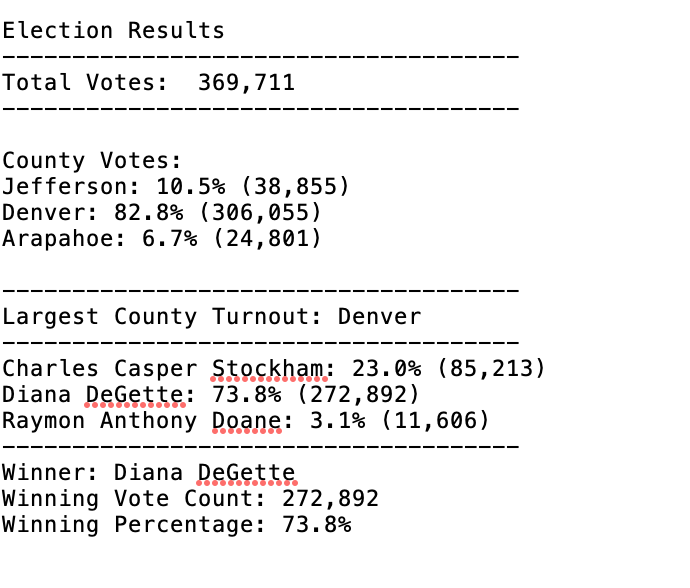
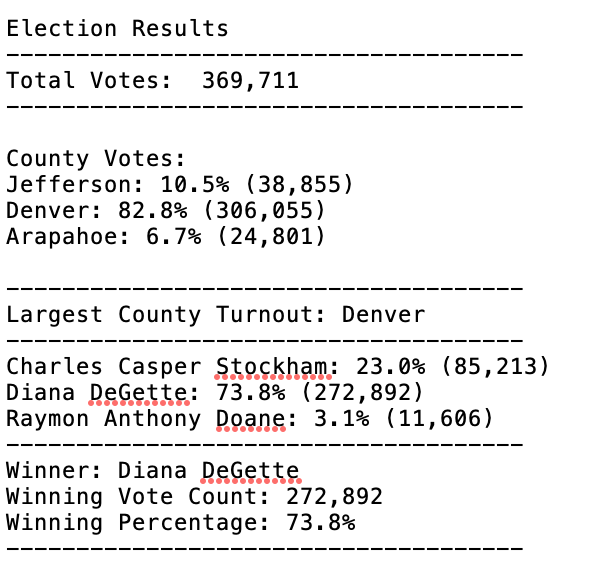
fixed formatting

diff --git a/PyPoll_Challenge.py b/PyPoll_Challenge.py
@@ -68,6 +68,7 @@ def getConsolidateCandidateSummary(candidate_votes):
         f"Winner: {winning_candidate}\n"
         f"Winning Vote Count: {winning_votes_count:,}\n"
         f"Winning Percentage: {winning_percentage_of_votes:.1f}%\n"
+        f"-------------------------------------\n"
     )
     #add winnning candidate summary to candidate summary to make it consolidated summary
     candidates_summary.append(winning_candidate_summary)
